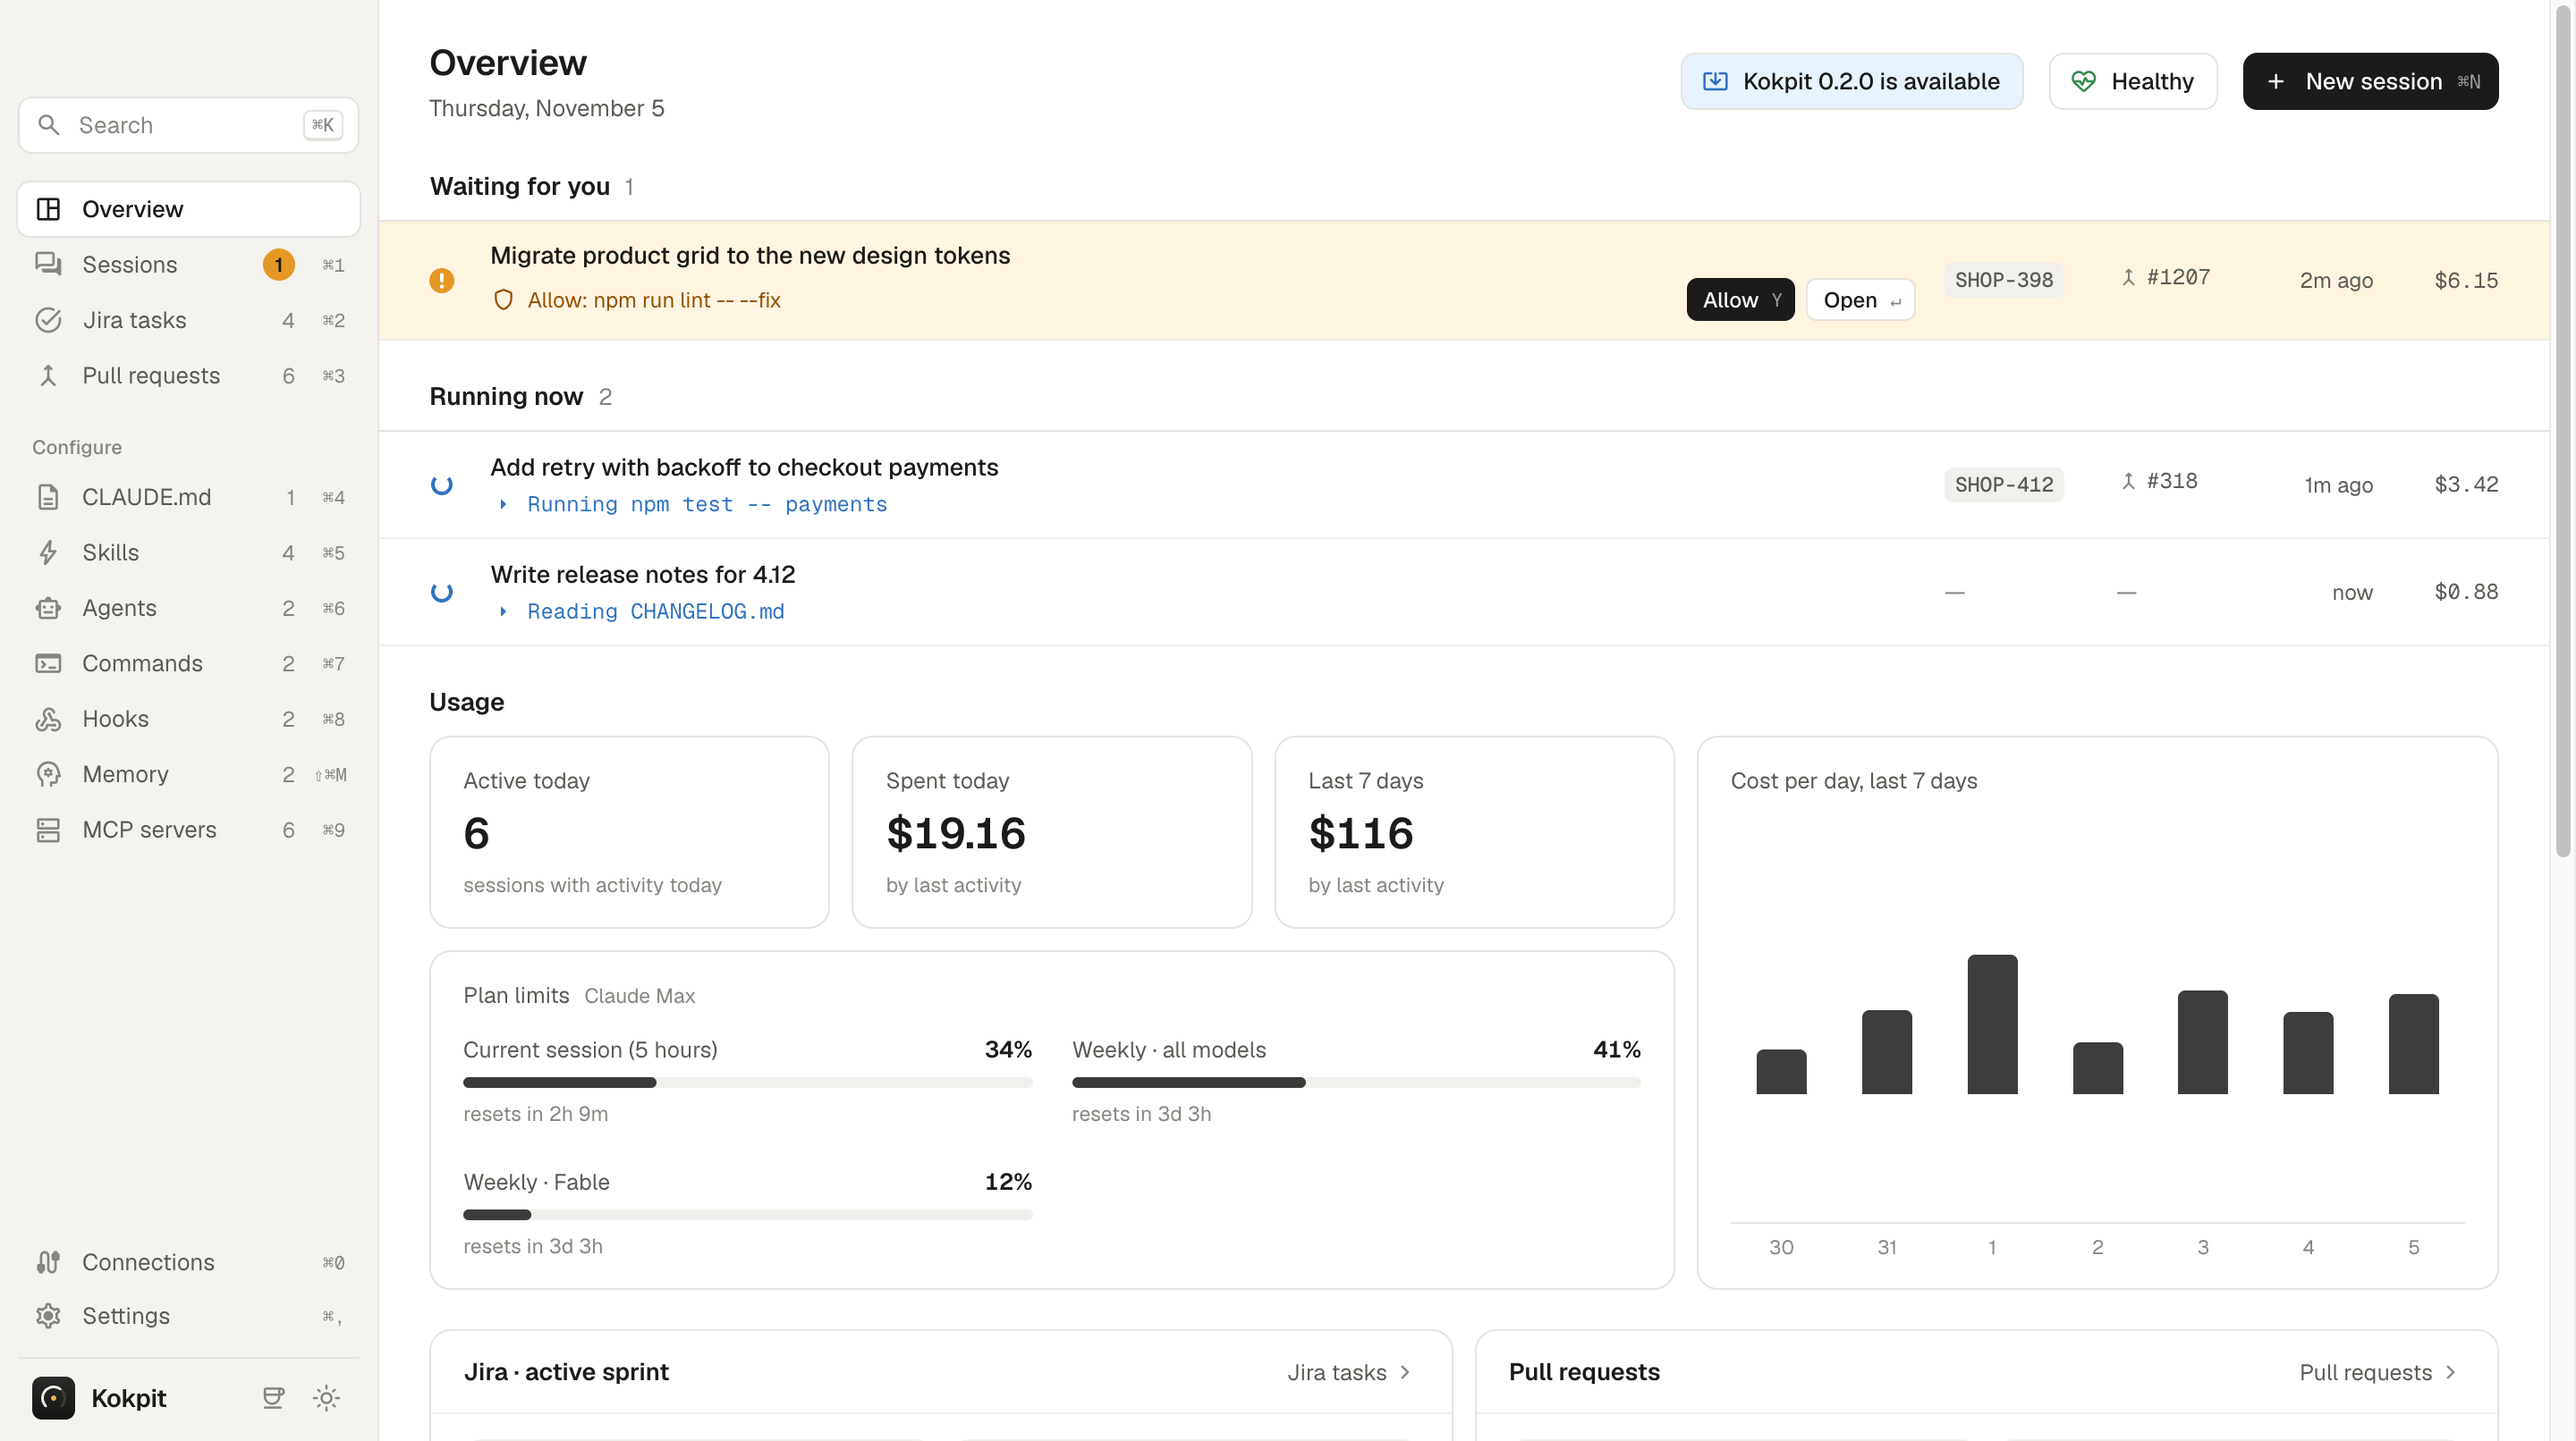
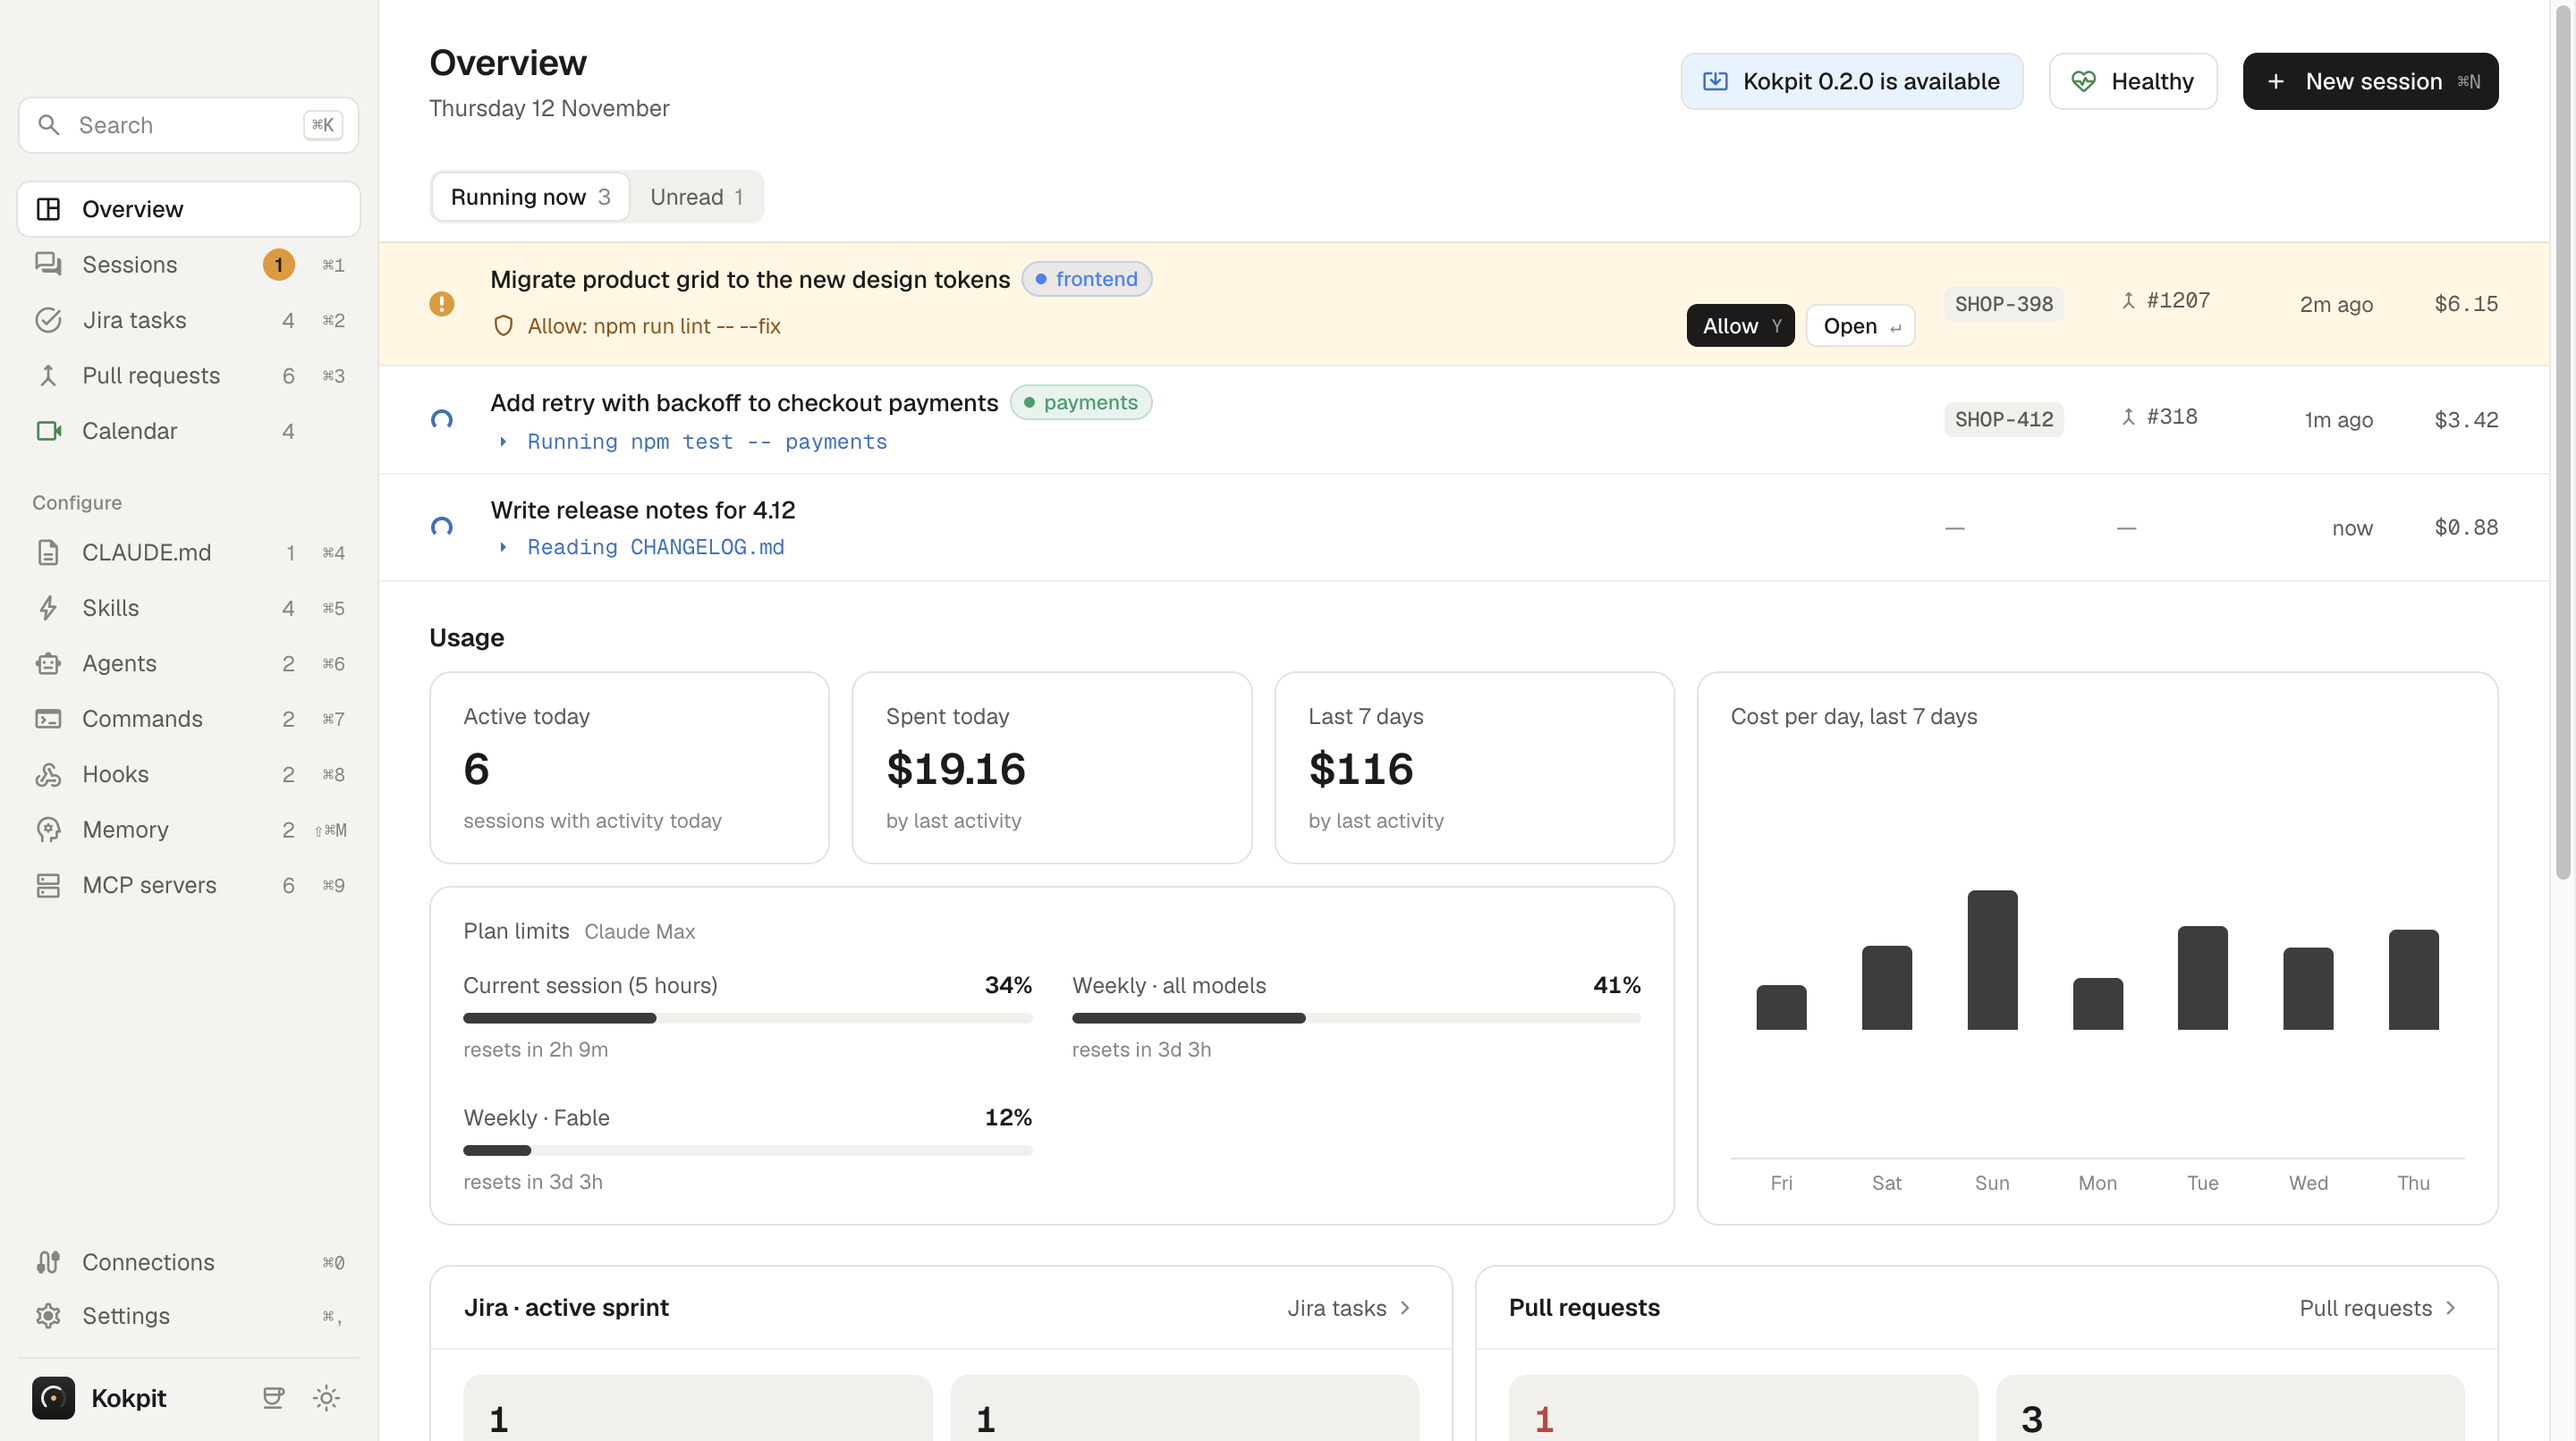
Update the README and screenshots for the features added since the first release

diff --git a/README.md b/README.md
@@ -8,7 +8,7 @@
   <img src="build/icon.png" width="96" height="96" alt="Kokpit" />
 </p>
 
-Kokpit puts your Claude Code sessions, Jira tasks and pull requests in one window. See which session needs you, read what Claude did, answer it or start a new one, and edit your CLAUDE.md, skills, agents, commands, hooks, memory and MCP servers without opening a terminal. A menu bar panel shows the same state when the window is closed.
+Kokpit puts your Claude Code sessions, Jira tasks, pull requests and today's meetings in one window. See which session needs you, read what Claude did, answer it or start a new one, continue it on your phone, and edit your CLAUDE.md, skills, agents, commands, hooks, memory and MCP servers without opening a terminal. A menu bar panel shows the same state when the window is closed.
 
 Built with Electron, React, TypeScript and the Claude Agent SDK. It uses your existing Claude Code login and settings.
 
@@ -31,24 +31,38 @@ Built with Electron, React, TypeScript and the Claude Agent SDK. It uses your ex
 
 ### Overview
 - Sessions waiting for you at the top, with Allow and Open right in the row
-- Sessions running now, with the step Claude is on
+- Running and unread sessions in two tabs, with the step Claude is on
 - Today's and last 7 days' cost, a cost-per-day chart, and your plan limits (5-hour session and weekly windows)
 - Active Jira sprint and your pull requests at a glance
 
 ### Sessions
-- Every Claude Code session on this Mac, read from your transcripts, filtered by state (needs you, running, error, done) and Jira task
+- Every Claude Code session on this Mac, read from your transcripts, filtered by state (needs you, running, error, done), Jira task and tag
+- Tags with colours to group sessions; pin sessions to the top and drag to reorder them
 - Jira and pull request chips on each row; hover one to see the task status or the PR's checks and reviews
+- A session counts as running while it has a background job, a shell included
 - Unread dot on sessions that changed since you last looked
 - Keyboard first: arrows to move, Enter to open, Y to allow, G W to jump to the next waiting session
 
 ### Session detail and chat
-- The conversation as Claude Code shows it: your messages, Claude's answers, tool steps grouped and collapsible, slash command output
-- A live "working" row while Claude runs, and a context meter, duration and cost in the header
-- Continue the session from Kokpit with model and effort pickers; slash commands autocomplete
-- Changes and Plan side panel: review the files Claude changed, edit or approve a plan, or attach it to a Jira task
+- The conversation as the Claude Code CLI shows it: your messages and Claude's answers in the open, tools and thinking grouped in collapsible work blocks
+- Approvals, questions, plan approval, retries, errors and notes behave like the CLI
+- Subagents, workflow runs and background jobs open live; read a background shell's log or stop a single job
+- Continue the session from Kokpit with model, effort and permission mode pickers; slash commands and @ files autocomplete
+- Paste images, or drag a file into the message box to insert its path
+- Messages sent while Claude works are queued; take one back before it runs, and Esc puts an unanswered message back in the box
+- Changes panel: syntax-highlighted diffs, comment on a file and send only the files you select, revert a file, rewind Claude's edits
+- Plan panel: read or edit the plan, then approve and implement
+- The side panel opens at its default width and can be dragged wider
+- Hover the Jira key in the header to see the task
+
+### Continue on your phone
+- One click hands a session to Claude Code's Remote Control, so you can pick it up in the Claude app on your phone
+- A QR code and link to open it; a phone icon marks the session in every list
+- "Bring back to Kokpit" returns the session here; Kokpit's message box stays locked while it is on the phone
 
 ### New session
-- Pick a repository, an optional title and prompt, model and effort, then start (⌘N)
+- Pick a repository, an optional title and prompt, model, effort and mode, then start (⌘N)
+- From a Jira task, Kokpit offers the task's existing sessions before starting a new one
 - Leave the prompt empty to open the session and write the first message there
 
 ### Jira tasks
@@ -59,29 +73,38 @@ Built with Electron, React, TypeScript and the Claude Agent SDK. It uses your ex
 - Your open pull requests and the ones waiting for your review
 - CI checks (latest run per check) and reviews (approvals, changes requested) per PR
 
+### Calendar
+- Connect Google Calendar and see today's meetings or the whole week
+- The meeting in progress is marked green, the next one shows the minutes left; Join opens Google Meet, Zoom or Teams
+- A reminder 1, 3, 5 or 10 minutes before each meeting, at the time you pick
+
 ### Configure
 - **CLAUDE.md**: edit the global and per-repo instructions
-- **Skills, agents, commands**: create, edit and delete them, with frontmatter fields and a Markdown preview
+- **Skills, agents, commands**: create, edit, upload and delete them, with frontmatter fields and a Markdown preview
+- **Skill folders**: see and create the files inside a skill, such as `references/*.md`
 - **Commands with arguments**: declare one or more arguments; Kokpit fills in `$ARGUMENTS` or `$0`, `$1`…
 - **Hooks**: see and edit the hooks Claude Code runs
 - **Memory**: browse and clean up Claude's memory files (⇧⌘M)
 - **MCP servers**: global and per-project servers in one list
 
 ### Menu bar
-- Plan usage and the number of sessions waiting, right in the menu bar
-- A panel with waiting and running sessions; click one to open it in the main window
+- Plan usage and the number of sessions waiting, right in the menu bar; the icon turns orange when a session waits and blue when one finished unread
+- The meeting in progress or the next one within the hour, with the minutes left; the icon turns green when a meeting is on or about to start
+- A panel with waiting, running and unread sessions and today's meetings; click a meeting to join it
 
 ### Notifications
 - macOS notifications when a session needs you, finishes or stops with an error
 - When CI fails on your pull request, someone requests changes, or someone asks for your review
-- Each event can be turned on or off; click a notification to jump to that session or PR
+- Before a meeting starts, and when a new Kokpit version is out
+- Each event can be turned on or off; click a notification to jump to that session, PR or meeting
 
 ### Everywhere
 - Search across sessions, skills, agents and rules (⌘K)
-- Doctor: checks Claude Code, your login, git, node, python and connections, from the header or Settings
+- Doctor: checks Claude Code, your login, Remote Control, git, node, python and connections, from the header or Settings
 - Keep-awake toggle so your Mac doesn't sleep during long runs
+- Right-click menu with copy, paste and link actions
 - Light, dark or system theme
-- Update check, with the update run in a terminal inside the app
+- Update check with the notes of every release you skipped, and the update run in a terminal inside the app
 
 ---
 
@@ -95,17 +118,21 @@ The same screen in dark mode.
 
 ![Overview, dark](docs/screenshots/overview-dark.png)
 
-**Sessions**: every Claude Code session, filtered by state and Jira task.
+**Sessions**: every Claude Code session, filtered by state, Jira task and tag.
 
 ![Sessions](docs/screenshots/sessions.png)
 
-**Session detail**: the conversation, grouped tool steps, and the changes Claude made.
+**Session detail**: the conversation, work blocks, and a syntax-highlighted diff of the changes Claude made.
 
 ![Session detail](docs/screenshots/session.png)
 
-**Plan review**: read or edit the plan, attach it to a Jira task, or approve and implement.
+**Plan review**: read or edit the plan, or approve and implement.
 
 ![Plan review](docs/screenshots/plan.png)
+
+**Continue on your phone**: the session runs through Remote Control and Kokpit shows where it is.
+
+![Continue on your phone](docs/screenshots/phone.png)
 
 **New session**: repository, title, prompt, model and effort.
 
@@ -123,11 +150,19 @@ The same screen in dark mode.
 
 ![Pull requests](docs/screenshots/pull-requests.png)
 
+**Calendar**: today's meetings from Google Calendar, with the one in progress marked.
+
+![Calendar](docs/screenshots/calendar.png)
+
+The whole week.
+
+![Calendar, this week](docs/screenshots/calendar-week.png)
+
 **CLAUDE.md**: global and per-repo instructions.
 
 ![CLAUDE.md](docs/screenshots/claude-md.png)
 
-**Skills**
+**Skills**, with the files inside a skill folder.
 
 ![Skills](docs/screenshots/skills.png)
 
@@ -151,11 +186,11 @@ The same screen in dark mode.
 
 ![MCP servers](docs/screenshots/mcp.png)
 
-**Connections**: GitHub and Jira accounts.
+**Connections**: GitHub, Jira and Google Calendar accounts.
 
 ![Connections](docs/screenshots/connections.png)
 
-**Menu bar panel**: plan usage, waiting and running sessions.
+**Menu bar panel**: plan usage, waiting, running and unread sessions, and today's meetings.
 
 <p align="center">
   <img src="docs/screenshots/menu-bar.png" width="380" alt="Menu bar panel" />
@@ -230,7 +265,7 @@ npm run build    # build into out/
 npm run dist     # build the .dmg and .zip into dist/
 ```
 
-No API keys are needed to build or run. Jira and GitHub are connected from the Connections page.
+No API keys are needed to build or run. Jira, GitHub and Google Calendar are connected from the Connections page.
 
 ---
 
@@ -251,5 +286,6 @@ The workflow needs one repository secret, `TAP_DEPLOY_KEY`: a deploy key with wr
 - **Sessions**: `~/.claude/projects/**/*.jsonl`, read only. An index is cached in the app's data folder.
 - **Skills, agents, commands, hooks, CLAUDE.md**: `~/.claude/` and the `.claude/` folder and `CLAUDE.md` of every repo your sessions worked in. Saving writes the file.
 - **Kokpit's own assistant**: `~/Kokpit` (its CLAUDE.md, skills, agents and memory).
-- **Jira and GitHub tokens**: encrypted with the macOS Keychain in the app's data folder. They never leave this Mac.
+- **Jira, GitHub and Google Calendar tokens**: encrypted with the macOS Keychain in the app's data folder. They never leave this Mac. Google Calendar is read only.
+- **Continue on your phone**: runs `claude --resume <session> --remote-control` in the session's folder. The session then goes through Claude Code's Remote Control, the same as starting it from a terminal.
 - **Plan usage**: read from your Claude Code login through the Claude Agent SDK.
